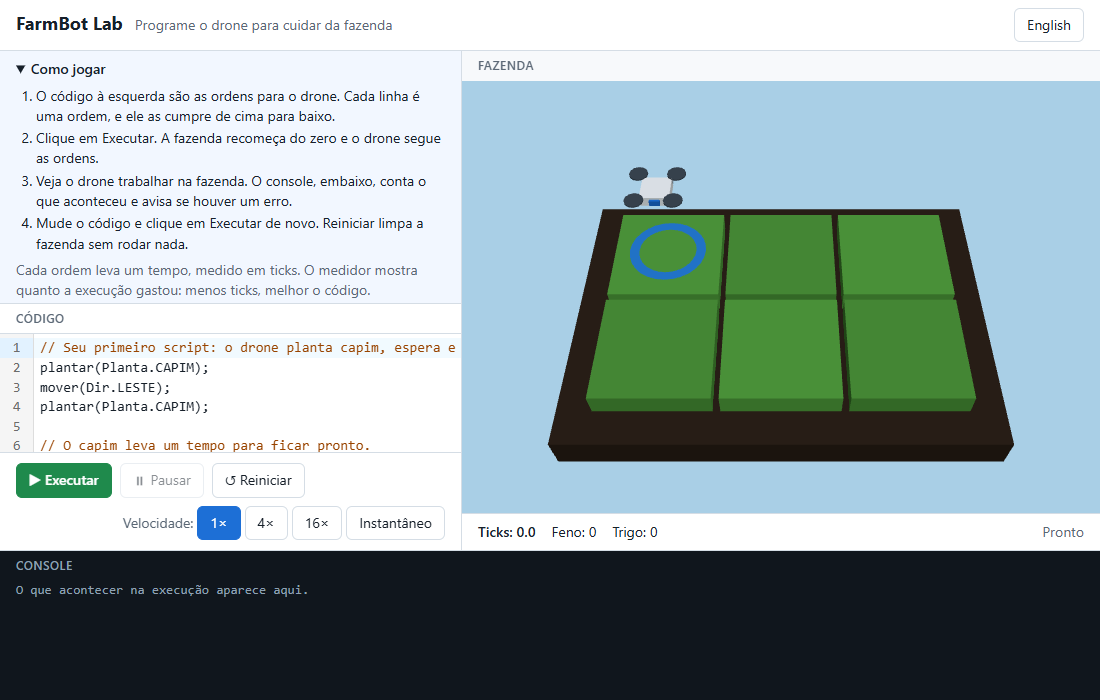
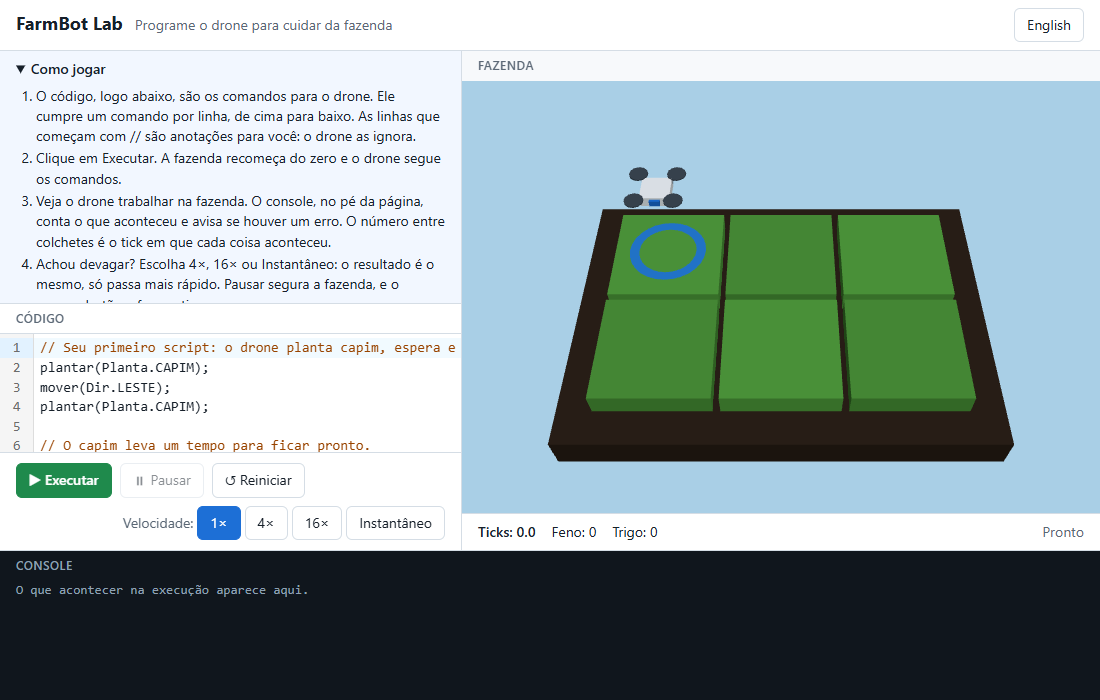
Ticket #12: corrige achados da revisão: instruções de primeiro uso, console (NaN, corte avisado, editor vazio), atalho Ctrl+Enter, troca do exemplo testada e glossário (Refs #12)

Changed region(s): [[0.0, 0.12, 0.4018, 0.42]]

diff --git a/src/view/i18n.ts b/src/view/i18n.ts
@@ -1,4 +1,4 @@
-import { ScriptError } from '../engine';
+import { formatTicks, ScriptError } from '../engine';
 import type { FarmEvent, Language } from '../engine';
 import en from './locales/en.json';
 import ptBR from './locales/pt-BR.json';
@@ -13,9 +13,22 @@ export function translate(language: Language, key: UiKey, values: Readonly<Recor
   return CATALOGS[language][key].replace(/\{(\w+)\}/g, (_match, name: string) => String(values[name] ?? ''));
 }
 
+/** The steps of "how to play", in order. */
+export const HELP_STEPS: readonly UiKey[] = ['help.step1', 'help.step2', 'help.step3', 'help.step4', 'help.step5'];
+
 /** The language to open in, from what the browser says the person prefers: Portuguese for any `pt`, English otherwise. */
 export function detectLanguage(preferred: string | undefined): Language {
   return preferred?.toLowerCase().startsWith('pt') ? 'pt-BR' : 'en';
+}
+
+const withoutBlanks = (code: string): string => code.replace(/\s+/g, '');
+
+/**
+ * What the editor should hold after the language changes: the example of the new language if the player
+ * has not written anything of their own yet (blank space aside), and their own code otherwise.
+ */
+export function codeAfterLanguageChange(code: string, previous: Language, next: Language): string {
+  return withoutBlanks(code) === withoutBlanks(translate(previous, 'example')) ? translate(next, 'example') : code;
 }
 
 /**
@@ -23,8 +36,7 @@ export function detectLanguage(preferred: string | undefined): Language {
  * again in another language at any time.
  */
 export type ConsoleEntry =
-  | { readonly kind: 'started' }
-  | { readonly kind: 'reset' }
+  | { readonly kind: 'started' | 'reset' | 'empty' | 'trimmed' }
   | { readonly kind: 'finished'; readonly ticks: string }
   | { readonly kind: 'event'; readonly event: ConsoleEvent }
   | { readonly kind: 'error'; readonly error: unknown };
@@ -32,11 +44,13 @@ export type ConsoleEntry =
 /** The events of the farm that deserve a line. The others (moving, planting, tilling) are plain to see in the scene. */
 type ConsoleEvent = Extract<FarmEvent, { type: 'logged' | 'harvested' | 'destroyed' | 'bumped' | 'rejected' }>;
 
-const CONSOLE_EVENTS: ReadonlySet<string> = new Set(['logged', 'harvested', 'destroyed', 'bumped', 'rejected']);
+function isConsoleEvent(event: FarmEvent): event is ConsoleEvent {
+  return event.type === 'logged' || event.type === 'harvested' || event.type === 'destroyed' || event.type === 'bumped' || event.type === 'rejected';
+}
 
 /** The console line for an event of the farm, if it gets one. */
 export function entryFor(event: FarmEvent): ConsoleEntry | undefined {
-  return CONSOLE_EVENTS.has(event.type) ? { kind: 'event', event: event as ConsoleEvent } : undefined;
+  return isConsoleEvent(event) ? { kind: 'event', event } : undefined;
 }
 
 export type Tone = 'info' | 'log' | 'warn' | 'error';
@@ -46,16 +60,27 @@ export interface ConsoleLine {
   readonly tone: Tone;
 }
 
-/** A logged value the way the console shows it: text as it is, anything else in its JSON form. */
-function show(value: unknown): string {
-  return typeof value === 'string' ? value : (JSON.stringify(value) ?? String(value));
+/**
+ * A logged value the way the console shows it: a text as it is, and anything else the way it is written
+ * in code. Numbers that are not ordinary numbers (NaN, Infinity) are shown as what they are.
+ */
+function show(value: unknown, nested = false): string {
+  if (typeof value === 'string') return nested ? JSON.stringify(value) : value;
+  if (Array.isArray(value)) return `[${value.map((item) => show(item, true)).join(', ')}]`;
+  if (typeof value === 'object' && value !== null) {
+    return `{${Object.entries(value)
+      .map(([key, item]) => `${key}: ${show(item, true)}`)
+      .join(', ')}}`;
+  }
+  return String(value);
 }
 
 function describeEvent(event: ConsoleEvent, language: Language): ConsoleLine {
-  const stamp = `[${(event.timeDeciticks / 10).toFixed(1)}] `;
+  // The engine says how a time is written, so the console and the meter always agree.
+  const stamp = `[${formatTicks(event.timeDeciticks)}] `;
   switch (event.type) {
     case 'logged':
-      return { text: stamp + event.values.map(show).join(' '), tone: 'log' };
+      return { text: stamp + event.values.map((value) => show(value)).join(' '), tone: 'log' };
     case 'harvested':
       return {
         text: stamp + translate(language, 'console.harvested', { quantity: event.quantity, item: translate(language, `console.item.${event.item}`) }),
@@ -82,9 +107,11 @@ function describeEvent(event: ConsoleEvent, language: Language): ConsoleLine {
 export function describeEntry(entry: ConsoleEntry, language: Language): ConsoleLine {
   switch (entry.kind) {
     case 'started':
-      return { text: translate(language, 'console.started'), tone: 'info' };
     case 'reset':
-      return { text: translate(language, 'console.reset'), tone: 'info' };
+    case 'trimmed':
+      return { text: translate(language, `console.${entry.kind}`), tone: 'info' };
+    case 'empty':
+      return { text: translate(language, 'console.empty'), tone: 'warn' };
     case 'finished':
       return { text: translate(language, 'console.finished', { ticks: entry.ticks }), tone: 'info' };
     case 'event':

diff --git a/src/view/i18n.test.ts b/src/view/i18n.test.ts
@@ -1,7 +1,7 @@
 import { describe, expect, it } from 'vitest';
 import { COMMAND_NAMES, createFarm, LANGUAGES } from '../engine';
 import type { FarmEvent, RejectReason } from '../engine';
-import { describeEntry, detectLanguage, entryFor, translate } from './i18n';
+import { codeAfterLanguageChange, describeEntry, detectLanguage, entryFor, HELP_STEPS, translate } from './i18n';
 import en from './locales/en.json';
 import ptBR from './locales/pt-BR.json';
 
@@ -74,6 +74,46 @@ describe('choosing the language', () => {
   });
 });
 
+describe('the instructions', () => {
+  it('say what each button does, how to go faster and what a comment is, in both languages', () => {
+    for (const language of LANGUAGES) {
+      const steps = HELP_STEPS.map((key) => translate(language, key)).join(' ');
+
+      expect(steps).toContain(translate(language, 'ui.run'));
+      expect(steps).toContain(translate(language, 'ui.reset'));
+      expect(steps).toContain(translate(language, 'ui.pause'));
+      expect(steps).toContain(translate(language, 'ui.speed.instant'));
+      expect(steps).toContain('//');
+    }
+  });
+
+  it('tell which way each direction points on the screen', () => {
+    expect(translate('pt-BR', 'help.cmd.move')).toMatch(/direita/);
+    expect(translate('en', 'help.cmd.move')).toMatch(/right/);
+  });
+});
+
+describe('the example when the language changes', () => {
+  const english = translate('en', 'example');
+  const portuguese = translate('pt-BR', 'example');
+
+  it('follows the language while the player has not changed it', () => {
+    expect(codeAfterLanguageChange(english, 'en', 'pt-BR')).toBe(portuguese);
+    expect(codeAfterLanguageChange(portuguese, 'pt-BR', 'en')).toBe(english);
+  });
+
+  it('follows the language even if only blank space was changed', () => {
+    expect(codeAfterLanguageChange(`\n${english}  \n\n`, 'en', 'pt-BR')).toBe(portuguese);
+  });
+
+  it('is left alone once the player has written something of their own', () => {
+    const mine = `${english}move(Dir.EAST);\n`;
+
+    expect(codeAfterLanguageChange(mine, 'en', 'pt-BR')).toBe(mine);
+    expect(codeAfterLanguageChange('', 'en', 'pt-BR')).toBe('');
+  });
+});
+
 describe('filling in a text', () => {
   it('puts the values in their places', () => {
     expect(translate('en', 'console.finished', { ticks: '12.5' })).toBe('Finished in 12.5 ticks.');
@@ -92,7 +132,7 @@ describe('a console line', () => {
   };
 
   it('starts with the tick it happened at, with one decimal place', () => {
-    expect(describeEntry(entryFor(events['logged'] as FarmEvent)!, 'en').text).toBe('[12.5] a 1 true null [1,2] {"x":1}');
+    expect(describeEntry(entryFor(events['logged'] as FarmEvent)!, 'en').text).toBe('[12.5] a 1 true null [1, 2] {x: 1}');
   });
 
   it.each(Object.entries(events))('is written for %s, in both languages', (_type, event) => {
@@ -104,6 +144,12 @@ describe('a console line', () => {
     expect(english.text).toMatch(/^\[\d+\.\d\] .+/);
     expect(portuguese.text).toMatch(/^\[\d+\.\d\] .+/);
     if (event.type !== 'logged') expect(portuguese.text).not.toBe(english.text);
+  });
+
+  it('shows numbers that are not ordinary numbers as what they are, never as null', () => {
+    const odd: FarmEvent = { type: 'logged', timeDeciticks: 0, values: [Number.NaN, Number.POSITIVE_INFINITY, undefined, [Number.NaN, 'a'], { n: Number.NEGATIVE_INFINITY }] };
+
+    expect(describeEntry(entryFor(odd)!, 'en').text).toBe('[0.0] NaN Infinity undefined [NaN, "a"] {n: -Infinity}');
   });
 
   it('is not written for what the scene already shows', () => {

diff --git a/src/view/app.ts b/src/view/app.ts
@@ -2,7 +2,7 @@ import { COMMAND_NAMES } from '../engine';
 import type { Language } from '../engine';
 import { createEditor } from './editor';
 import { FarmScene } from './farm-scene';
-import { describeEntry, translate } from './i18n';
+import { codeAfterLanguageChange, describeEntry, HELP_STEPS, translate } from './i18n';
 import type { UiKey } from './i18n';
 import type { Speed } from './player';
 import { Session, SPEEDS } from './session';
@@ -42,8 +42,9 @@ function element<K extends keyof HTMLElementTagNameMap>(tag: K, className = '', 
 
 /**
  * The interface: it lays out the editor, the scene and the console, and passes messages between them.
- * It is the only part that knows all three. The editor only holds text, the scene only draws, and the
- * session only runs: none of them knows the others.
+ * It is the only part that knows all three. The editor only holds text and the scene only draws: neither
+ * knows anything else. The session runs the farm and keeps the scene up to date with it, and knows
+ * nothing about the editor or the page.
  */
 export function createApp(root: HTMLElement, options: AppOptions): AppHandle {
   let language = options.language;
@@ -63,7 +64,7 @@ export function createApp(root: HTMLElement, options: AppOptions): AppHandle {
   help.open = true;
   const helpTitle = element('summary', '', help);
   const steps = element('ol', 'steps', help);
-  const stepItems = [1, 2, 3, 4].map(() => element('li', '', steps));
+  const stepItems = HELP_STEPS.map((key) => ({ key, item: element('li', '', steps) }));
   const ticksNote = element('p', 'note', help);
   const commands = element('details', 'commands', help);
   const commandsTitle = element('summary', '', commands);
@@ -119,9 +120,7 @@ export function createApp(root: HTMLElement, options: AppOptions): AppHandle {
     languageButton.textContent = text('ui.switchLanguage');
     languageButton.title = text('ui.switchLanguage.hint');
     helpTitle.textContent = text('help.title');
-    stepItems.forEach((item, index) => {
-      item.textContent = text(`help.step${index + 1}` as UiKey);
-    });
+    for (const { key, item } of stepItems) item.textContent = text(key);
     ticksNote.textContent = text('help.ticks');
     commandsTitle.textContent = text('help.commands.title');
     commandList.replaceChildren(
@@ -203,8 +202,10 @@ export function createApp(root: HTMLElement, options: AppOptions): AppHandle {
     const previous = language;
     language = language === 'en' ? 'pt-BR' : 'en';
     session.language = language;
-    // The example follows the language, unless the player has already changed the code.
-    if (editor.getCode() === translate(previous, 'example')) editor.setCode(text('example'));
+    // The example follows the language, unless the player has already written code of their own.
+    const code = editor.getCode();
+    const next = codeAfterLanguageChange(code, previous, language);
+    if (next !== code) editor.setCode(next);
     renderTexts();
     options.onLanguage?.(language);
   });

diff --git a/src/view/session.ts b/src/view/session.ts
@@ -1,4 +1,4 @@
-import { createFarm } from '../engine';
+import { createFarm, formatTicks } from '../engine';
 import type { Farm, FarmEvent, FarmState, Language, Run } from '../engine';
 import type { FarmScene } from './farm-scene';
 import { entryFor } from './i18n';
@@ -28,7 +28,8 @@ export interface SessionOptions {
  * same result every time; Reset puts the farm back at the start without running anything. There is never
  * more than one run: starting another one drops the one that was going.
  *
- * It knows nothing about the editor, and the scene and the engine know nothing about it.
+ * It keeps the scene up to date with the farm, but knows nothing about the editor or the page, and
+ * the scene and the engine know nothing about it.
  */
 export class Session {
   /** The language of the messages of the next run. The console can be read in any language at any time. */
@@ -74,7 +75,7 @@ export class Session {
 
   /** The ticks the run has spent, with exactly one decimal place. */
   get meter(): string {
-    return this.currentRun?.getMeter().formatted ?? '0.0';
+    return this.currentRun?.getMeter().formatted ?? formatTicks(0);
   }
 
   get speed(): Speed {
@@ -96,7 +97,10 @@ export class Session {
 
   private write(entry: ConsoleEntry): void {
     this.log.push(entry);
-    if (this.log.length > MAX_ENTRIES) this.log.splice(0, this.log.length - MAX_ENTRIES);
+    if (this.log.length > MAX_ENTRIES) {
+      // The oldest lines go, and a note in their place says so.
+      this.log.splice(0, this.log.length - MAX_ENTRIES + 1, { kind: 'trimmed' });
+    }
     this.changes++;
   }
 
@@ -112,6 +116,13 @@ export class Session {
   /** Starts the farm over from scratch and runs the script on it. */
   run(source: string): void {
     this.startOver();
+    if (source.trim() === '') {
+      // Nothing to run: say so, instead of a run that ends at once and teaches nothing.
+      this.scene.sync(this.farm.getState());
+      this.write({ kind: 'empty' });
+      this.currentStatus = 'idle';
+      return;
+    }
     this.write({ kind: 'started' });
     try {
       this.currentRun = this.farm.run(source);

diff --git a/src/view/session.test.ts b/src/view/session.test.ts
@@ -277,4 +277,33 @@ describe('the console', () => {
     expect(lines(session).at(-1)).toMatch(/^Finished in /);
     expect(lines(session).at(-2)).toMatch(/4999$/);
   });
+
+  it('says so when it has dropped older lines, instead of dropping them quietly', () => {
+    const session = newSession();
+    session.speed = 'instant';
+    session.run('for (let i = 0; i < 5000; i++) {\n  log(i);\n  wait(1);\n}');
+    playOut(session);
+
+    expect(lines(session)[0]).toBe('(Older lines were removed to make room.)');
+    expect(lines(session, 'pt-BR')[0]).toBe('(As linhas mais antigas foram apagadas para abrir espaço.)');
+  });
+
+  it('does not say so when nothing was dropped', () => {
+    const session = newSession();
+    session.run(FIRST_SCRIPT);
+    playOut(session);
+
+    expect(lines(session).join('\n')).not.toMatch(/Older lines/);
+  });
+});
+
+describe('an empty editor', () => {
+  it.each(['', '   ', '\n\n\t'])('is not run: the player is told to write a command first (%j)', (source) => {
+    const session = newSession();
+    session.run(source);
+
+    expect(session.status).toBe('idle');
+    expect(lines(session)).toEqual([expect.stringMatching(/^The code is empty\. Write a command, for example move\(Dir\.EAST\);/)]);
+    expect(lines(session, 'pt-BR')).toEqual([expect.stringMatching(/^O código está vazio\. Escreva um comando, por exemplo mover\(Dir\.LESTE\);/)]);
+  });
 });

diff --git a/docs/fatia-1-prototipo-vertical.md b/docs/fatia-1-prototipo-vertical.md
@@ -88,7 +88,8 @@ Regras da interface, decididas com o responsável:
 - **Console:** o que `log`/`registrar` escreve (com o tick), cada colheita, os avisos (planta perdida por colher cedo, drone batendo na borda, recusas da fazenda em palavras simples), os erros do script com linha, causa, sugestão e dica, e uma linha final com os ticks gastos. Guarda no máximo 300 linhas. As linhas são guardadas como fatos, não como texto, então o console inteiro muda de idioma na hora.
 - **Idioma:** abre no idioma do navegador (`pt` vira português, qualquer outro vira inglês), com um botão para trocar a qualquer momento. A troca muda a interface, as instruções, o console e o script de exemplo (se o jogador ainda não mexeu nele), e vale para os erros da execução seguinte. A escolha fica lembrada no navegador. Os comandos continuam valendo nos dois idiomas.
 - **Camada:** a página não define `layer`, então toda a sintaxe está liberada. A progressão por camadas entra quando o bloqueio de comandos (#16) existir.
-- **Instruções:** o painel "Como jogar" fica aberto, com quatro passos, a explicação dos ticks e a lista de ordens que o drone entende, com os nomes no idioma escolhido.
+- **Instruções:** o painel "Como jogar" fica aberto, com cinco passos (o que é o código e o que são as linhas com `//`, Executar, o console e o número entre colchetes, velocidades e Pausar, Reiniciar), a explicação dos ticks e a lista de comandos que o drone entende, com os nomes no idioma escolhido e para que lado da tela cada direção aponta.
+- **Casos de borda:** editor vazio não é executado (o console pede para escrever um comando). Quando o console descarta linhas antigas, uma nota no topo avisa. Um laço que espera para sempre (`while (true) { esperar(1); }`) nunca termina, por definição: só Pausar, Reiniciar ou outro Executar o interrompem, e a página não trava.
 - **Textos fora do código:** `src/view/locales/en.json` e `pt-BR.json`, com teste de chaves e campos iguais, e um teste que exige explicação para todo comando do motor.
 
 Para testar à mão, o endereço aceita `w`, `h`, `seed`, `speed`, `lang`, `demo` (`garden` ou `sweep`), `autorun` e `paused`.

diff --git a/GLOSSARY.md b/GLOSSARY.md
@@ -153,6 +153,14 @@ _Avoid_: núcleo (minúsculo)
 A parte que implementa as regras do jogo e roda sem interface.
 _Avoid_: engine, backend
 
+**Idioma da interface**:
+O idioma em que a página mostra seus textos, as instruções e o console (pt-BR ou inglês). O jogador o troca a qualquer momento, e ele passa a ser o idioma das mensagens da execução seguinte.
+_Avoid_: idioma do jogo, locale
+
+**Velocidade**:
+O ritmo em que a tela pede tempo ao motor: 1×, 4×, 16× ou instantâneo. Nunca muda o resultado de uma execução.
+_Avoid_: aceleração, taxa de quadros
+
 **Console**:
 A lista do que aconteceu numa execução, embaixo do editor: o que o script escreveu, colheitas, avisos, erros e os ticks gastos.
 _Avoid_: terminal, log (como nome do painel), saída

diff --git a/docs/validacao-visual/README.md b/docs/validacao-visual/README.md
@@ -45,7 +45,7 @@ Fluxo de primeiro uso, com cliques e teclado de verdade no Edge (`pnpm capture 4
 | `marco-4-06-script-digitado.png` | Um script digitado no editor e executado com Ctrl+Enter |
 | `marco-4-07-erro-pt.png` | Uma recusa da fazenda, um aviso e um erro com linha, sugestão e dica, em português |
 | `marco-4-08-erro-en.png` | O mesmo console depois de trocar o idioma para inglês |
-| `marco-4-09-ajuda-comandos-en.png` | A lista de ordens que o drone entende, em inglês |
+| `marco-4-09-ajuda-comandos-en.png` | A lista de comandos que o drone entende, em inglês |
 | `marco-4-10-abertura-en.png` | A página ao abrir em inglês, com o exemplo em inglês |
 | `marco-4-11-janela-estreita.png` | Janela estreita (420 px): editor em cima, fazenda embaixo |
 

diff --git a/docs/agents/vocabulario-codigo.md b/docs/agents/vocabulario-codigo.md
@@ -44,6 +44,9 @@ Identificadores e comentários do código ficam em **inglês**. Documentação, 
 | Cena | `FarmScene` |
 | Console | `ConsoleEntry` (uma linha) |
 | Sessão | `Session` |
+| Idioma da interface | `Language` na `Session` e no `createApp` |
+| Velocidade | `Speed` (`SPEEDS`) |
+| Palco (onde a cena é desenhada: renderizador, luz e câmera) | `Stage` |
 
 Comandos do jogador têm nome em inglês e em português (REQ-FND-41), definidos pelo GDD §9. Os nomes em inglês são os identificadores internos, e os nomes em português são apelidos.
 
